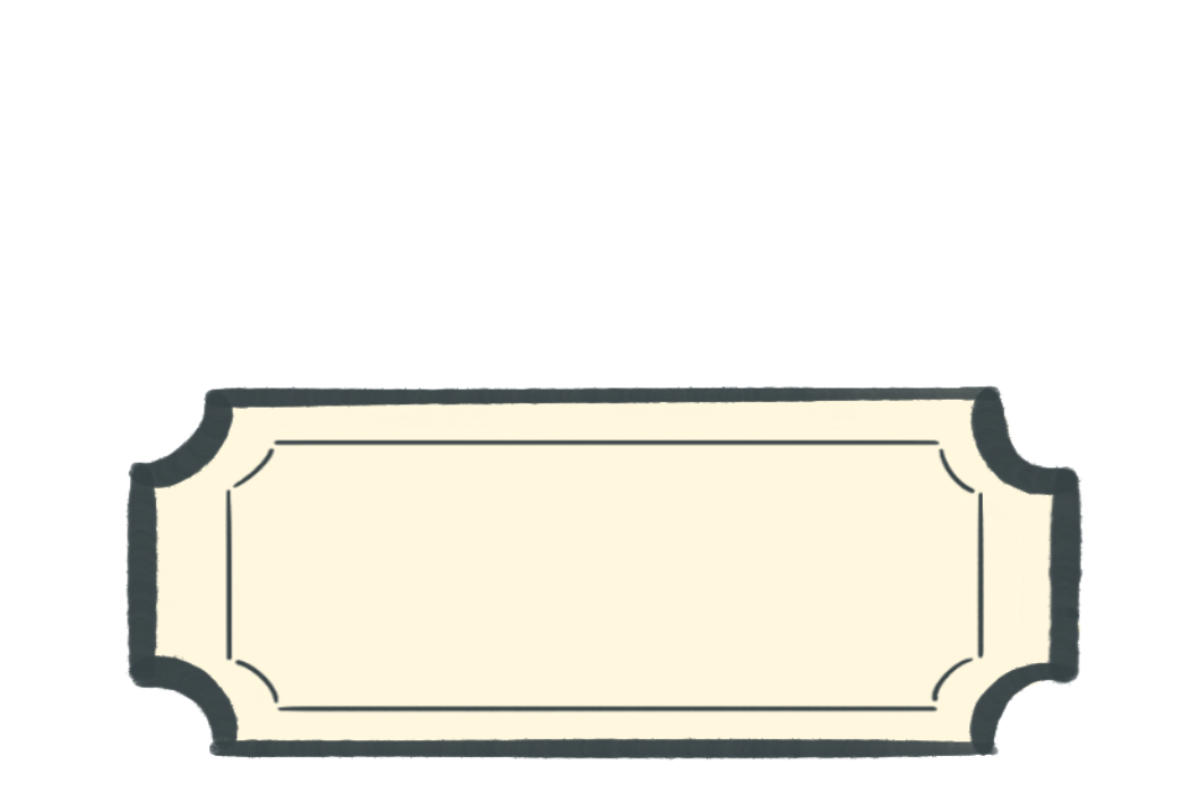
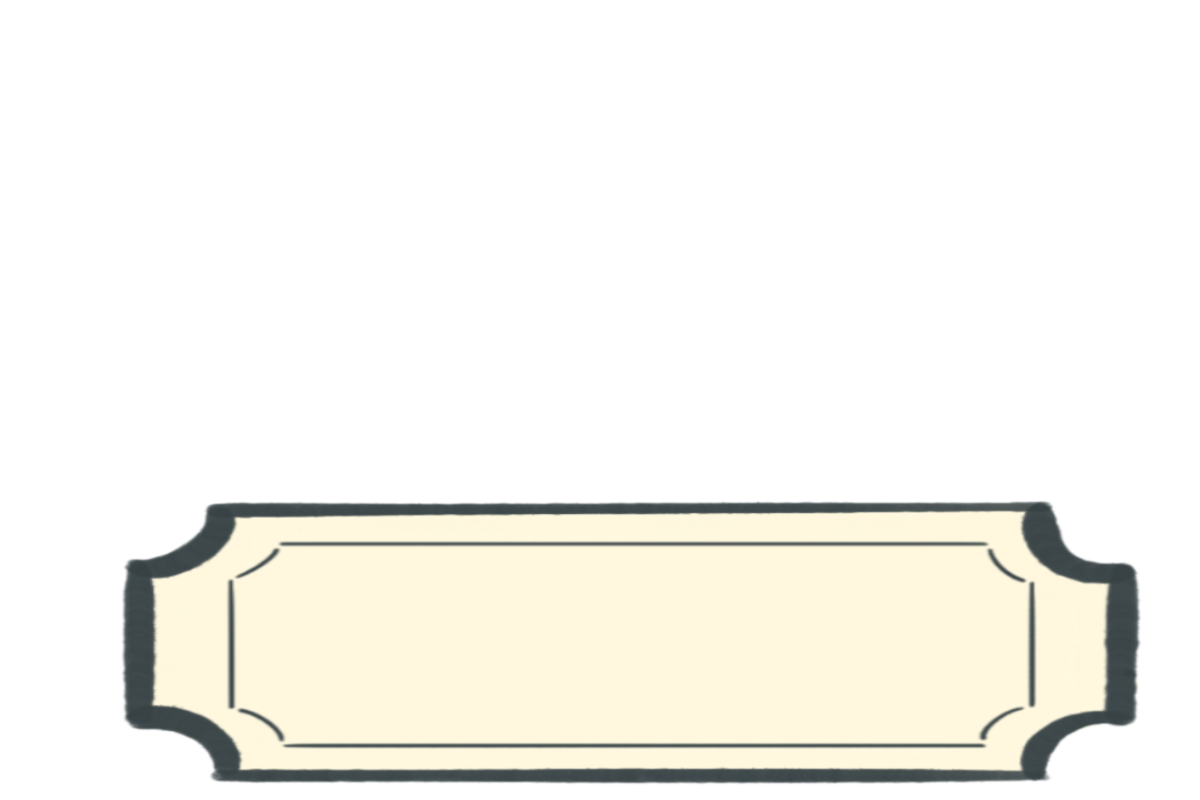
Changing textbox pic to better sized one. Trying to code a text function for the speaking.

Changed region(s): [[0.0925, 0.4688, 0.9558, 1.0]]

diff --git a/main.py b/main.py
@@ -13,6 +13,11 @@ screen = pygame.display.set_mode((width, height))
 
 pygame.display.set_caption('Digi Lab')
 
+transparent_surface = pygame.Surface((200, 200))
+transparent_surface.fill((255, 0, 255))
+
+transparent_surface.set_colorkey((255, 0, 255))
+
 
 bildneutral = pygame.image.load("media/character/arsen/Arsen neutral.png").convert_alpha()
 img2 = pygame.image.load("media/character/arsen/Arsen happy.png").convert_alpha()
@@ -21,6 +26,14 @@ img4 = pygame.image.load("media/character/arsen/Arsen speaking.png").convert_alp
 background = pygame.image.load("media/background/digilabbackground.jpg").convert_alpha()
 textbocks = pygame.image.load("media/textbox/Textbox.png").convert_alpha()
     #img = pygame.transform.scale(img, (70, 100))
+
+text1 = 'Willkommen'
+text2 = 'Im Digi Lab'
+font = pygame.font.SysFont(None, 30)
+line1 = font.render( text1, True,0)
+line2 = font.render( text2, True,0)
+line3 = font.render( text1, True,0)
+line4 = font.render( text1, True,0)
 
 
 textbox2 = textbox.TextBox((100, 500, 1000, 200))#x, y, width height
@@ -33,6 +46,13 @@ textbox2 = textbox.TextBox((100, 500, 1000, 200))#x, y, width height
 textbox2.background_colour = (255, 0, 255)
 
 textbox2.text = "Welcome to Digi Lab."
+
+def text():
+    screen.blit(textbocks, (0, 0))
+    screen.blit(line1, (300, 560))
+    screen.blit(line2, (300, 580))
+    screen.blit(line3, (300, 600))
+    screen.blit(line4, (300, 620))
 
 clock = pygame.time.Clock()
 
@@ -59,9 +79,11 @@ while running:
         textbox2.test_collide(event)
     screen.blit(background, (0, 0))
     screen.blit(bildneutral, (0, 0))
-    screen.blit(textbocks, (0, 0))
+    #screen.blit(textbocks, (0, 0))
     #textbox1.draw(textbox1.text, screen)
-    textbox2.draw(textbox2.text, screen)
+    #textbox2.draw(textbox2.text, screen)
+    text()
+
     pygame.display.flip()
     clock.tick(60)
 
